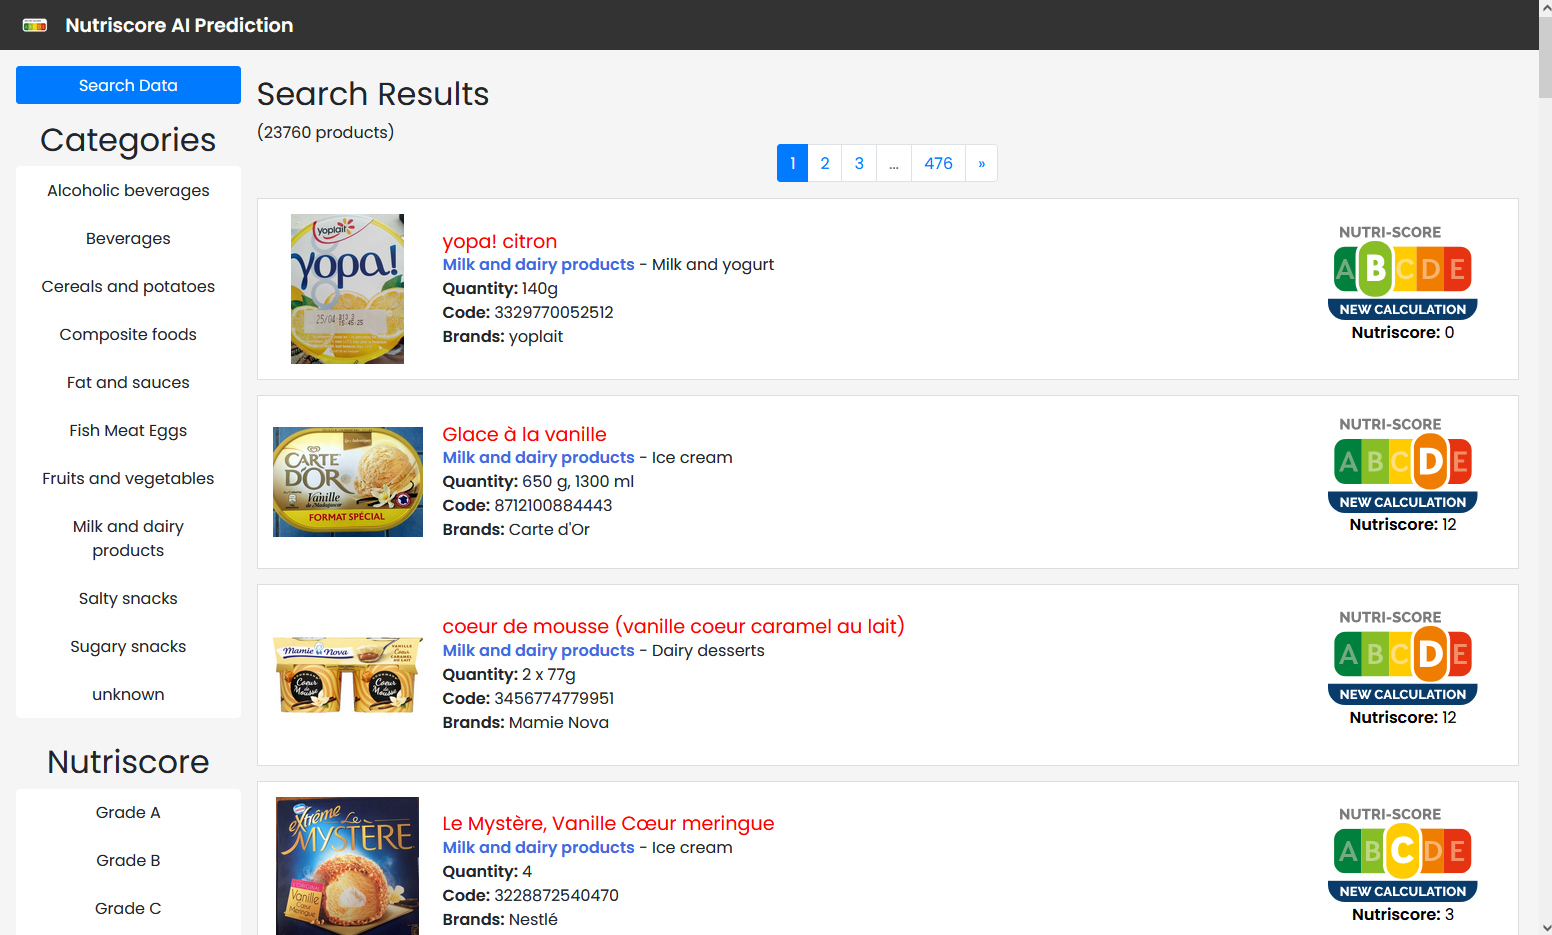
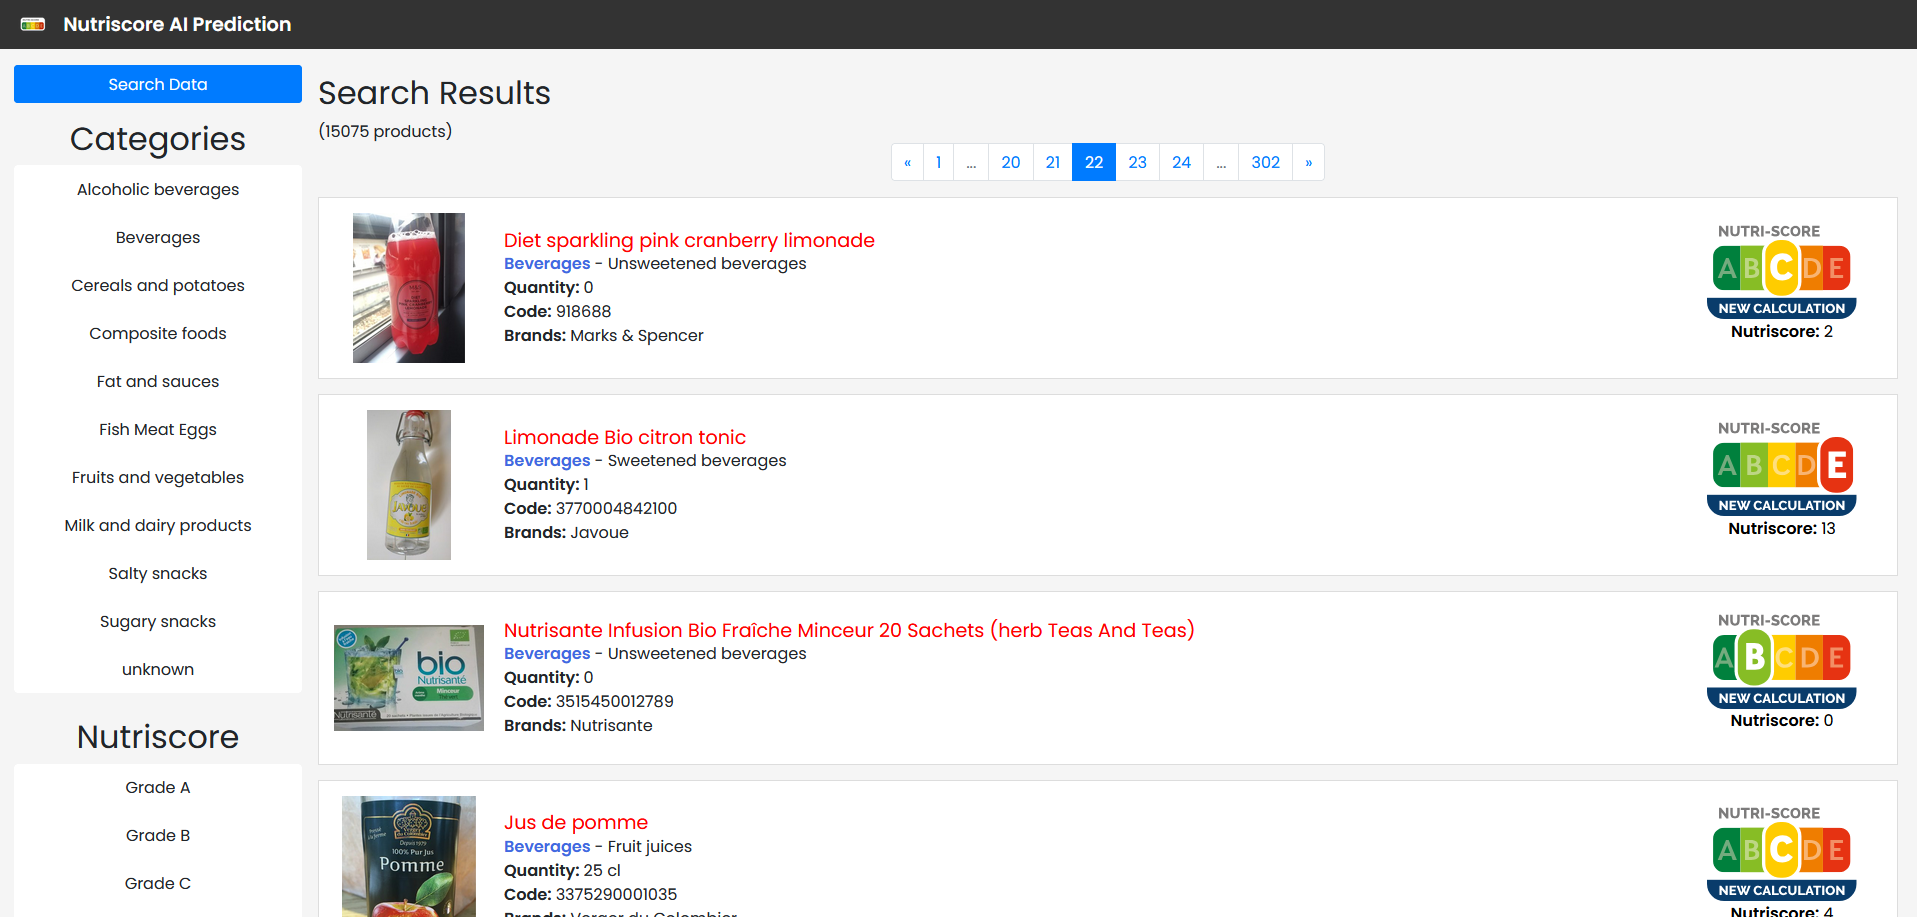
Fixed bad route + updated data screenshot

diff --git a/app/templates/loading_dataframe.html b/app/templates/loading_dataframe.html
@@ -35,7 +35,7 @@
             .then(data => {
                 console.log(data);
                 if (data.complete) {
-                    window.location.href = "{{ url_for('main.training_data') }}";
+                    window.location.href = "{{ url_for('product_bp.training_data') }}";
                 } else {
                     setTimeout(checkTaskStatus, 1000); // Check again after 1 second
                 }

diff --git a/app/routes/product_routes.py b/app/routes/product_routes.py
@@ -23,7 +23,7 @@ def training_data():
     # Checks if the dataframe is already loaded
     if 'PRODUCTS_DF' not in current_app.config:
         # Send to a 'Loading dataframe' template
-        return redirect(url_for('main_bp.loading_data'))
+        return redirect(url_for('main.loading_data'))
 
     # Retrieve the products DataFrame from the app config
     products = current_app.config['PRODUCTS_DF']
